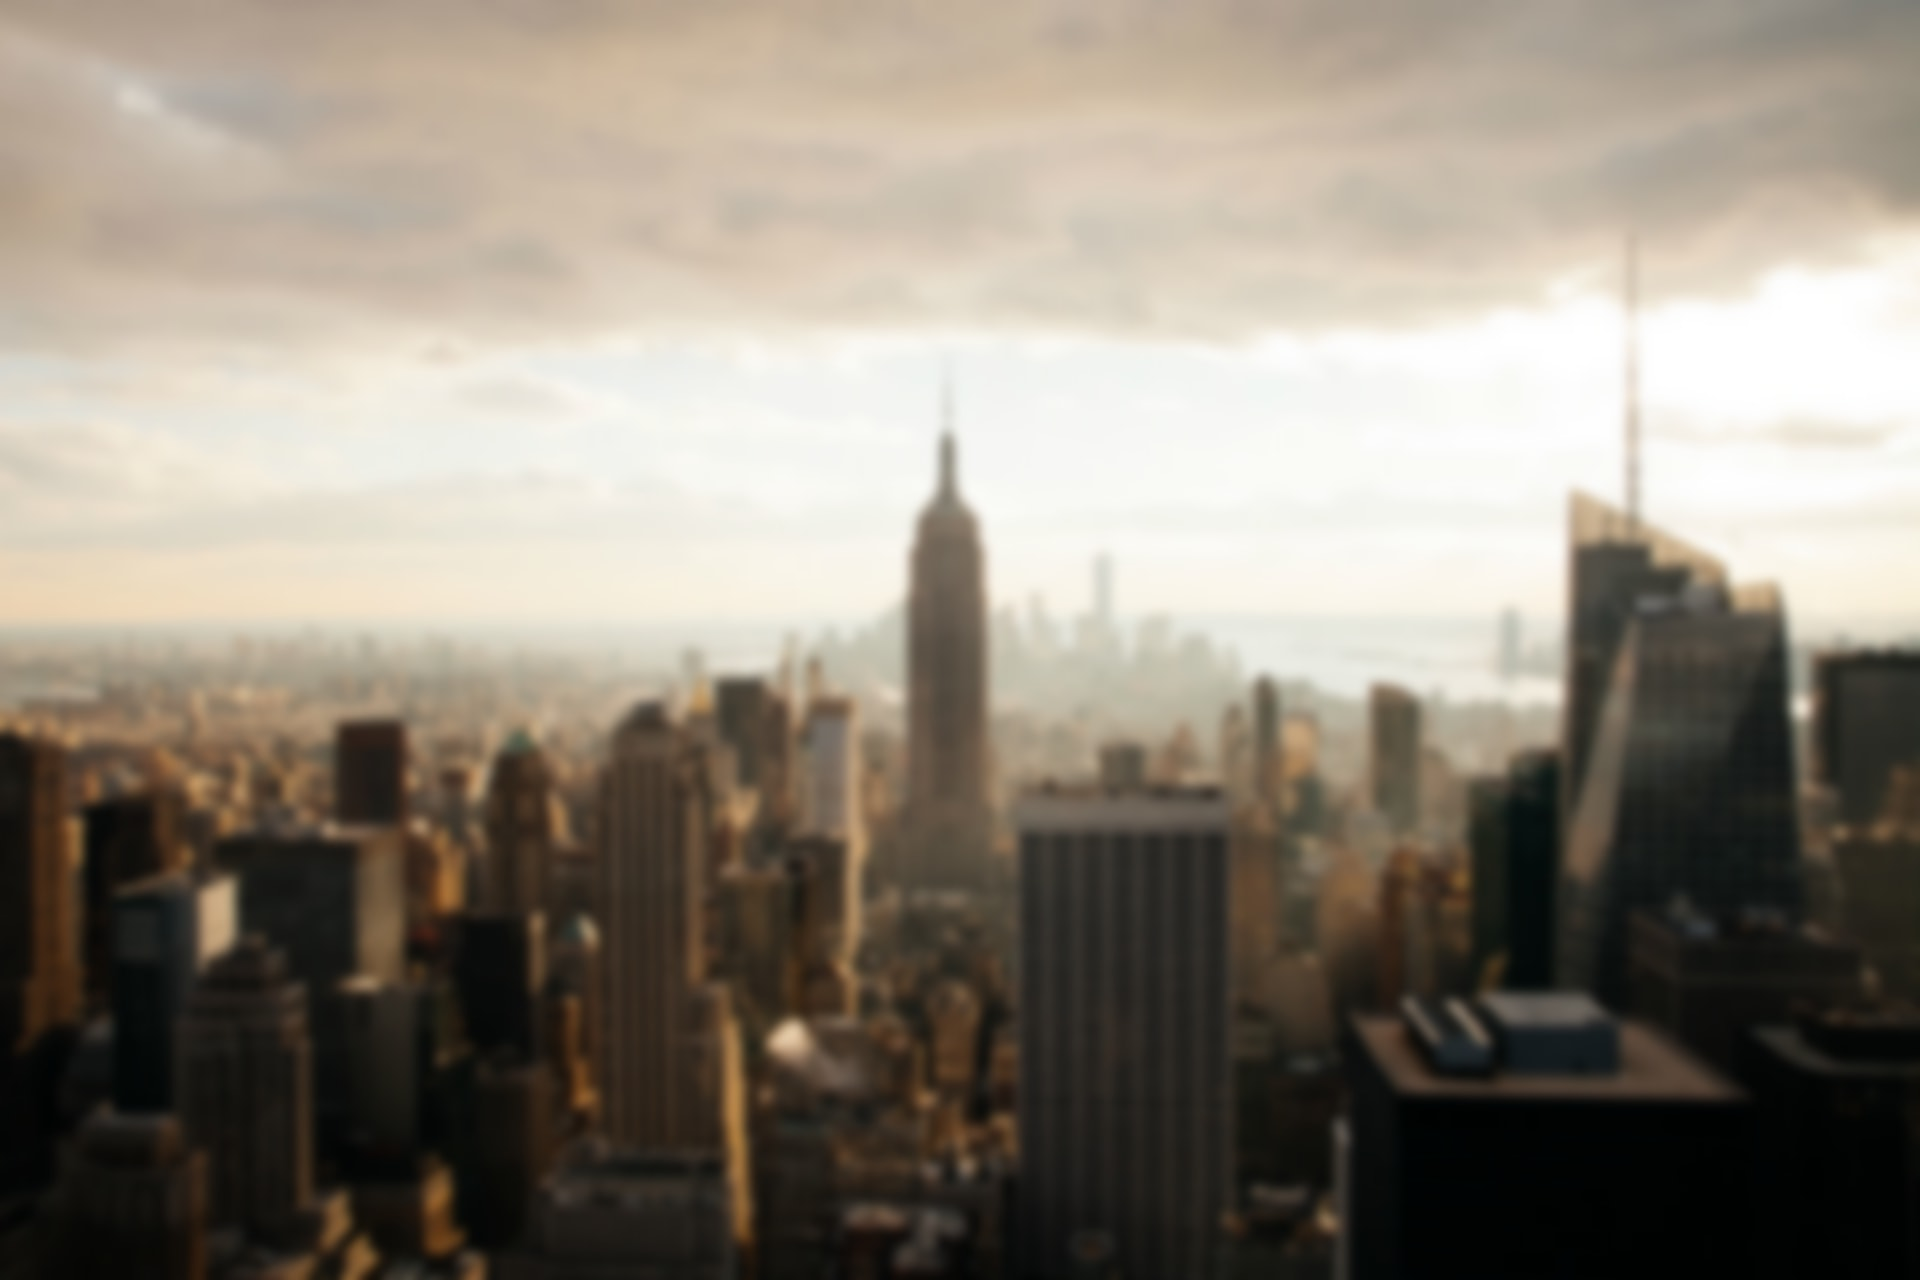
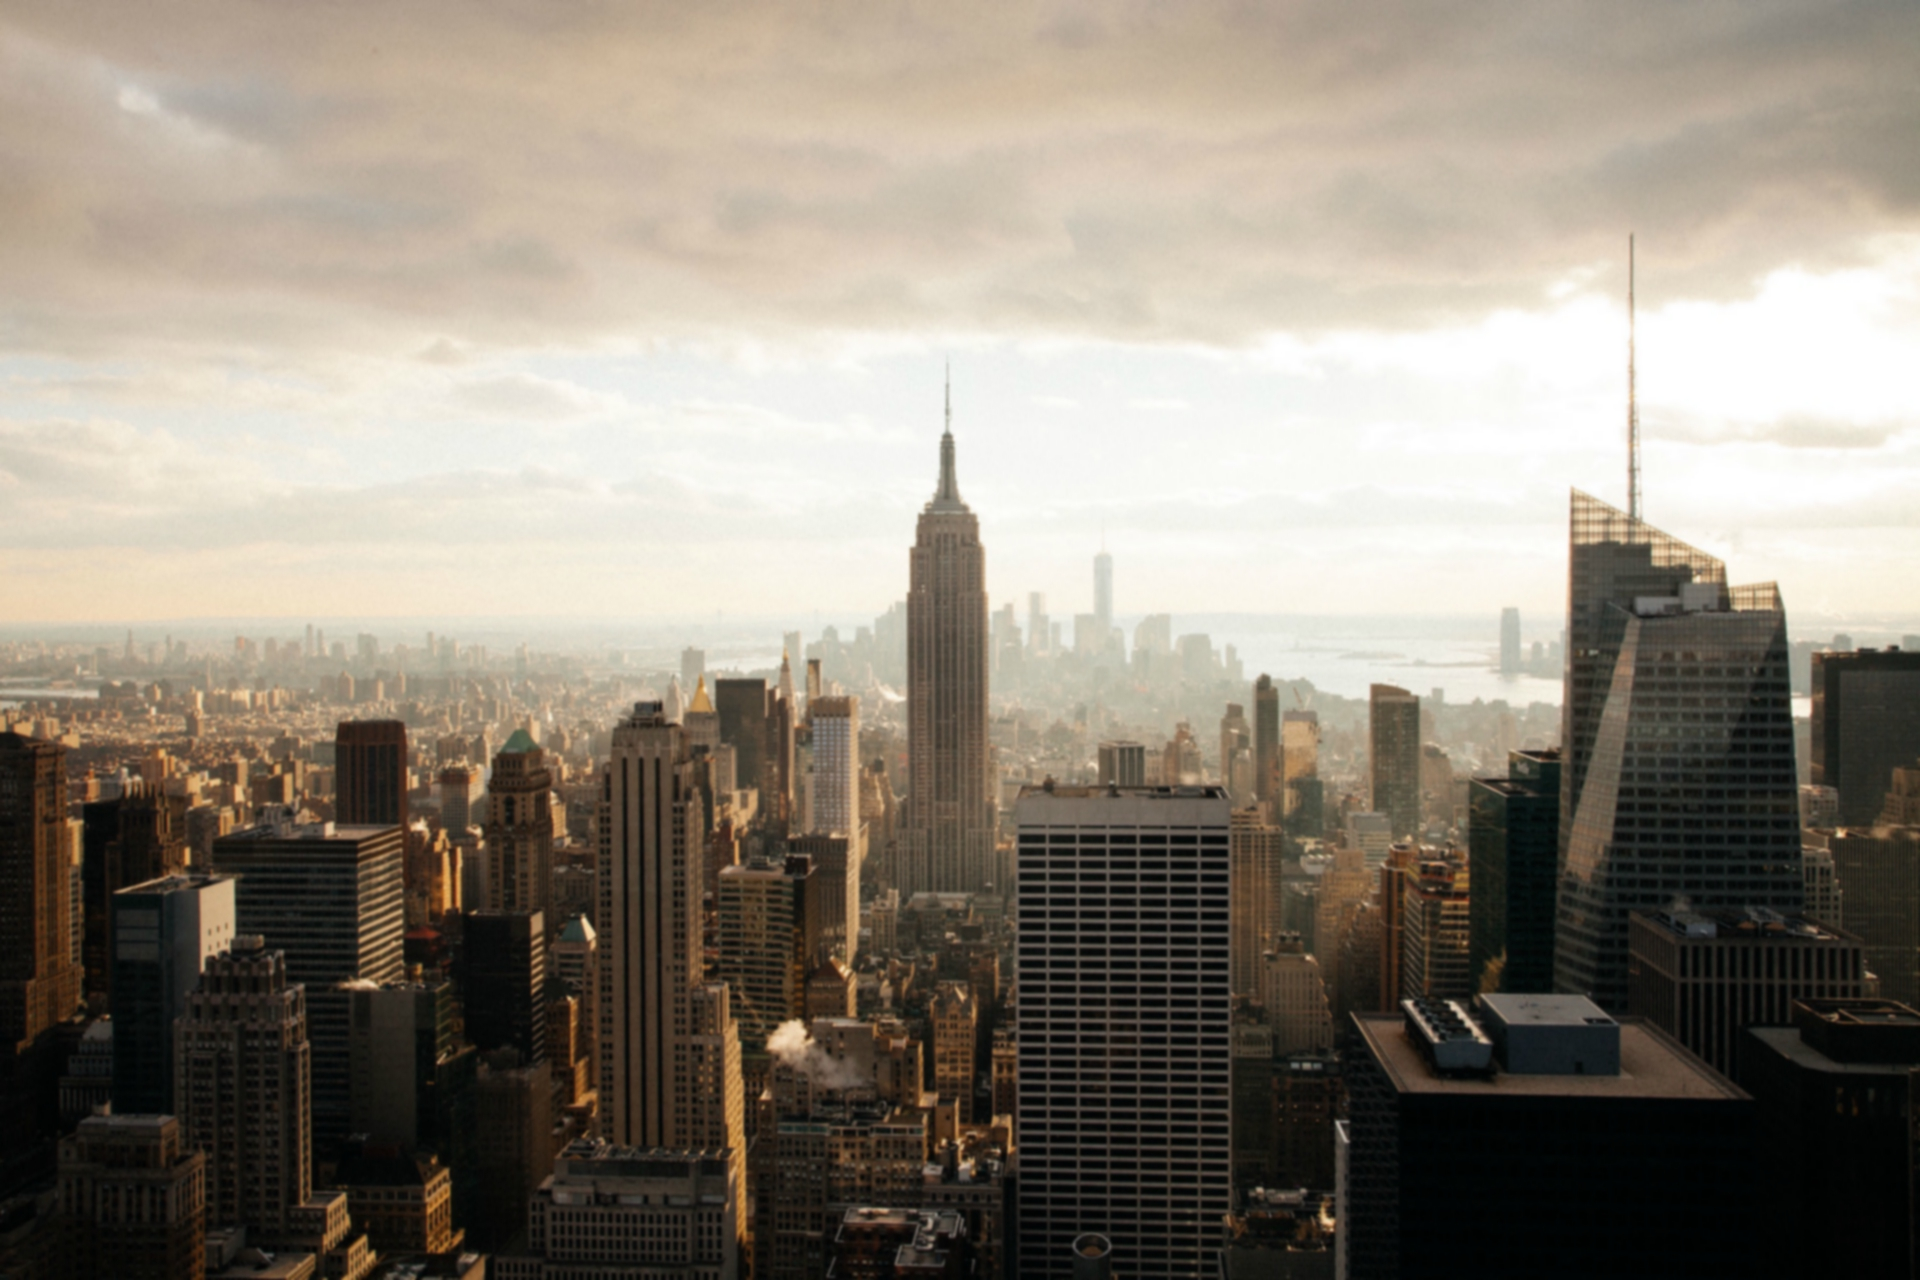
img comrpessed

diff --git a/reuserat/templates/pages/home.html b/reuserat/templates/pages/home.html
@@ -24,7 +24,7 @@
 
 
     <div class="wrapper">
-        <div class="header header-filter" style="background-image: url('{% static "images/main-blur-min.jpg" %}');">
+        <div class="header header-filter" style="background-image: url('{% static "images/main-min.jpeg" %}');">
             <div class="container">
                 <div id="bloomington" class="row" style="position: relative;">
                     <div>

diff --git a/reuserat/shopify/api/config.py b/reuserat/shopify/api/config.py
@@ -37,7 +37,7 @@ product_base_json = lambda: {
 
 
 def shopify_intialize():
-    logger.info("START HERE shopify/config.py ")
+    logger.info("START HERE shopify/config.py")
     shopify.ShopifyResource.set_site(SHOPIFY_SHOP_URL)
     shop = shopify.Shop.current()
 
